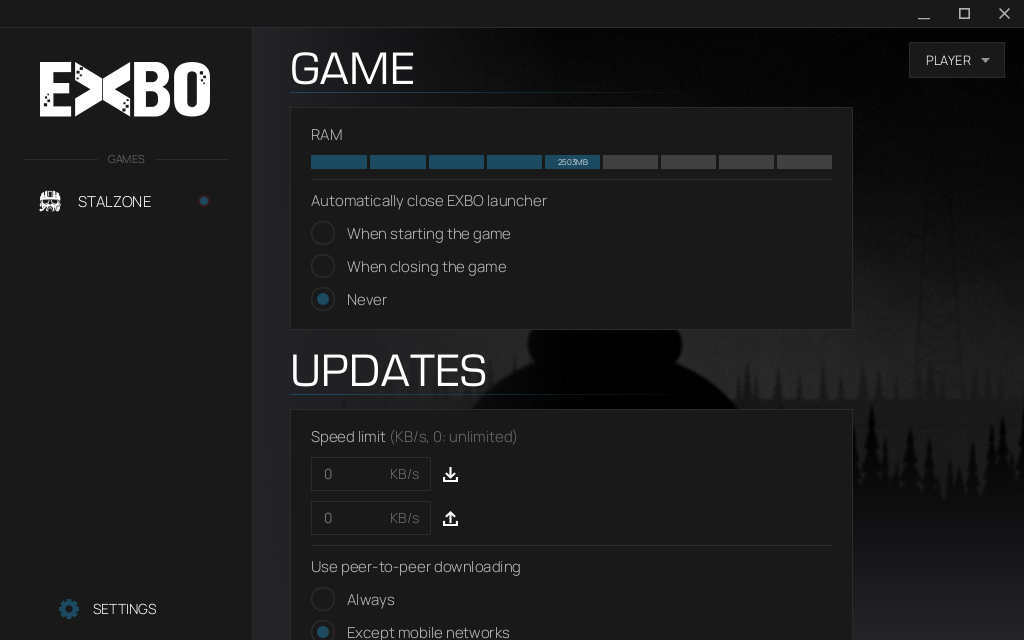
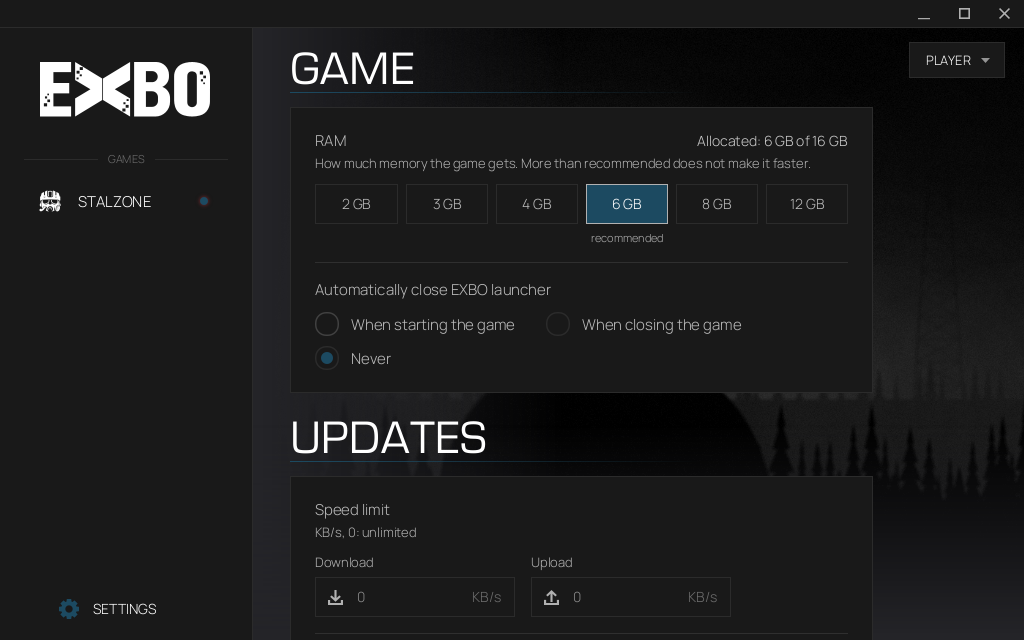
docs: screenshot tour for registration, TOTP toast and logout confirm; refreshed shots (zone/exbo/shadcn)
- ScreenshotTour: 05b_logout_confirm, 14_age_gate, 15_age_gate_too_young, 16_register,
  17_register_error, 18_registered_login, 19_totp_error; new settings in 06-08/12
- README (demo logins, registration, logout), STYLE-ZONE.md (settings, RAM, steps, TOTP, modal),
  WINDOWS.md (flow, panel table, logout/close paths)

diff --git a/src/main/kotlin/dev/launcherfork/app/ScreenshotTour.kt b/src/main/kotlin/dev/launcherfork/app/ScreenshotTour.kt
@@ -1,6 +1,9 @@
 package dev.launcherfork.app
 
+import dev.launcherfork.ui.screens.auth.AgeGateController
 import dev.launcherfork.ui.screens.auth.InitialAuthController
+import dev.launcherfork.ui.screens.auth.RegisterController
+import dev.launcherfork.ui.screens.auth.TotpAuthController
 import dev.launcherfork.theme.Theme
 import javafx.animation.PauseTransition
 import javafx.application.Platform
@@ -53,7 +56,9 @@ class ScreenshotTour(private val nav: StageNavigator, private val dir: File) {
         step(1.0) { shot("04_main") }
         step(0.1) { main().profileBarController.showMenu() }
         step(0.3) { shot("05_profile_menu") }
-        step(0.1) { main().profileBarController.hideMenu(); main().setSettingsVisible(true) }
+        step(0.1) { main().profileBarController.logout.fire() } // "Выйти из аккаунта" -> the logout confirmation
+        step(0.4) { shot("05b_logout_confirm") }
+        step(0.1) { main().logoutPaneController.logoutButtonLeft.fire(); main().setSettingsVisible(true) } // cancel
         step(0.6) { shot("06_settings_game") }
         step(0.1) { main().settingsController.scroll.vvalue = 0.55 }
         step(0.4) { shot("07_settings_updates") }
@@ -82,8 +87,43 @@ class ScreenshotTour(private val nav: StageNavigator, private val dir: File) {
         step(1.0) { shot("12_settings_en") }
         step(0.1) { main().profileBarController.switchAccount.fire() } // back to the separate auth window
         step(0.6) { shot("13_auth_after_switch_account") }
+        step(0.1) { nav.switchLanguage("ru"); nav.showAgeGate() }
+        registrationAndSecondFactorFlow()
         step(0.3) { Platform.exit() }
         run()
+    }
+
+    /** Pre-main window again (ru): age gate, registration form, back to login, authenticator-code panel with its toast. */
+    private fun registrationAndSecondFactorFlow() {
+        val gate = { nav.panelController as AgeGateController }
+        val form = { nav.panelController as RegisterController }
+        val auth = { nav.panelController as InitialAuthController }
+        val totp = { nav.panelController as TotpAuthController }
+        step(0.6) { shot("14_age_gate") }
+        step(0.1) {
+            gate().dayBox.value = 12; gate().monthBox.value = 3; gate().yearBox.value = gate().today.year - 12
+            gate().onContinue() // too young
+        }
+        step(0.3) { shot("15_age_gate_too_young") }
+        step(0.1) {
+            gate().dayBox.value = 26; gate().monthBox.value = 7; gate().yearBox.value = 2000
+            gate().onContinue()
+        }
+        step(0.6) { shot("16_register") }
+        step(0.1) {
+            form().emailField.text = "stalker@mail"
+            form().usernameField.text = "stalker_1"
+            form().passwordField.text = "zone2026!"
+            form().newsletterCheckBox.isSelected = true
+            form().licenseCheckBox.isSelected = true
+            form().onCreate() // e-mail format error
+        }
+        step(0.3) { shot("17_register_error") }
+        step(0.1) { form().emailField.text = "stalker@mail.ru"; form().onCreate() }
+        step(1.3) { shot("18_registered_login") }
+        step(0.1) { auth().loginField.text = "totp"; auth().passwordField.text = "secret"; auth().onEnter() }
+        step(1.3) { totp().codeInput.setCode("000000"); totp().enter() } // the mock's wrong code
+        step(1.3) { shot("19_totp_error") }
     }
 
     private fun step(delaySec: Double, action: () -> Unit) = steps.addLast(delaySec to action)

diff --git a/README.md b/README.md
@@ -36,8 +36,19 @@
 
 На машине без дисплея: `xvfb-run -a ./gradlew run -Dlauncher.theme=zone -Dlauncher.screenshots=$PWD/docs/screenshots/zone`.
 
-**Демо-логин** (всё фейковое): подходит любой логин и пароль. Логин `2fa` открывает экран ввода кода из e-mail
-(подходит любой 6-значный код). Пароль `wrong` показывает ошибку «неверный логин или пароль».
+**Демо-логин** (всё фейковое): подходит любой логин и пароль. Логин `2fa` открывает экран кода из e-mail
+(как раньше: любой 6-значный код; экран кода из письма ведёт ветка redesign/panels-zone), логин `totp` — экран кода
+из приложения-аутентификатора
+(6 ячеек, подходит любой 6-значный код, кроме `000000` — он показывает тост «ОШИБКА ПРИ ПОДТВЕРЖДЕНИИ»). Пароль
+`wrong` показывает ошибку «неверный логин или пароль».
+
+**Выход из аккаунта**: подтверждение открывает только пункт меню профиля «Выйти из аккаунта» (Enter — выйти,
+Esc — отмена, фокус на «Отмена»); «Сменить аккаунт» выходит сразу, крестик окна и Alt+F4 закрывают лаунчер без
+вопросов.
+
+**Регистрация** (ссылка «Создать» на панели входа): возраст (день / месяц / год, нужно ≥ 18 лет) → форма
+(почта, имя 3–16 символов `A-Z a-z 0-9 _`, пароль ≥ 8, обязательное согласие с лицензией) → панель входа с
+заполненным именем. Имя `taken` → «Имя занято», почта `taken@…` → «Эта почта уже зарегистрирована».
 
 Сценарий: окно фейкового самообновления → в том же окне вход → окно входа закрывается, открывается главное окно
 (Настройки / Скачать → прогресс → Играть → «Игра запущена»). Меню профиля в правом верхнем углу: «Профиль ↗»
@@ -78,7 +89,7 @@ src/main/kotlin/dev/launcherfork/
    ├─ Messages.kt       AuthError / UpdatePhase -> ключи строк (домен ключей не знает)
    ├─ Disposable.kt     контроллер экрана освобождает таймеры/слушатели при уходе с экрана
    ├─ state/            ClientStateStore: состояния клиента Download/Pause/Continue/Play/Exit (на сессию)
-   ├─ components/       WindowChrome (WindowFrame: drag/maximize/resize/центрирование, ResizeEdge), SegmentedBar (RAM),
+   ├─ components/       WindowChrome (WindowFrame: drag/maximize/resize/центрирование, ResizeEdge), RamSelector (RAM), CodeInput (ячейки кода TOTP),
    │                    LogoMark (вектор EXBO из exbo-logo.svg), InputBlock (блок мыши/клавиатуры под диалогом),
    │                    Effects, ServerEntryController (пункт игры в колонке)
    └─ screens/
@@ -160,7 +171,7 @@ src/main/resources/dev/launcherfork/
      фиксированного размера заполняет `panelHost` 460×588.
    - `OverlayNavigatorTest`: под диалогом (overlay и модальные слои) ничто не получает фокус, контент отключён и
      закэширован, фокус в диалоге; логотип — 4 `SVGPath` с even-odd, равномерный масштаб, заливка из токена.
-     `SegmentedBar` прилипает к сегментам.
+     `RamSelector` — чипы в ГБ.
    - `ClientStateStore` (скачивание, пауза, продолжение, готово, запуск, «выйти», поздние колбэки после паузы
      и рестарта, shutdown) на ручных фейках, без таймеров.
    - `background()`: исключение доходит до UI как ошибка; окна авторизации разблокируются и показывают
@@ -217,7 +228,8 @@ src/main/resources/dev/launcherfork/
 - **`-fx-effect: dropshadow(...), innershadow(...)`** на корне `main.fxml` в JavaFX 21 не парсится (два эффекта
   через запятую). Оставлен только `dropshadow`. Внутри прозрачного окна 886×550 тень всё равно обрезается.
 - **`NumberTextField`** (свой класс оригинала в `mail_auth.fxml`) заменён на `TextField` + `TextFormatter`.
-- **RAM**: вместо слайдера оригинала теперь сегментная полоса `SegmentedBar` (9 сегментов, клик/перетаскивание).
+- **RAM**: вместо слайдера оригинала — чипы `RamSelector` с реальными значениями в ГБ (2…16, не больше
+  памяти компьютера − 2 ГБ, рекомендуемое отмечено), подпись «Выделено: X ГБ из Y ГБ» (`domain/RamOptions`).
 - Переключатель страниц «главная/новости» (`pagesPane`), соцсети и описание сервера в отдельной панели убраны.
   Hero и новости редизайна тоже убраны (вместе с `NewsRepository`/`NewsItem` и моками новостей): центр
   главного окна будет спроектирован заново.
@@ -229,7 +241,9 @@ src/main/resources/dev/launcherfork/
 Снимки Scene активного окна, сделанные автотуром под Xvfb (`ScreenshotTour`), одинаковые для всех тем:
 `01_update_window`, `02_auth_window`, `03_auth_error` (окно до входа, 460×620), `04_main`, `05_profile_menu`,
 `06_settings_game`, `07_settings_updates`, `08_settings_others`, `09_running`, `10_tools_menu`,
-`11_resized_1366x800`, `12_settings_en`, `13_auth_after_switch_account`. Единственная игра STALZONE установлена,
+`11_resized_1366x800`, `12_settings_en`, `13_auth_after_switch_account`, затем снова окно входа (ru):
+`14_age_gate`, `15_age_gate_too_young`, `16_register`, `17_register_error`, `18_registered_login`,
+`19_totp_error`. После `05_profile_menu` есть `05b_logout_confirm` (подтверждение «Выход из аккаунта»). Единственная игра STALZONE установлена,
 поэтому диалога установки и прогресса скачивания в туре нет.
 
 - `docs/screenshots/zone/` — тема `zone` (основная цель редизайна);

diff --git a/docs/design/STYLE-ZONE.md b/docs/design/STYLE-ZONE.md
@@ -140,8 +140,27 @@ Oswald), поэтому кегли заголовков в `theme-zone.css` ув
 - **Поле ввода** (`.text-field` / `.zone-input` + `.zone-radius-sm`): заливка `-input`, рамка 1 px `-border`,
   при фокусе `-ring` (красная), текст `-input-foreground`, подсказка `-placeholder`.
 - **Радио / тумблер**: кольцо Ø22, обводка 1.5 px `-border`, заливка `-input`. Выбранное — красная точка Ø12.
-- **Сегментная полоса RAM** (`SegmentedBar`): 9 сегментов с `.zone-radius-sm`, активные `-primary`,
-  неактивные `-segment-off`, значение мелким кеглем в последнем активном сегменте.
+- **Настройки** (`settings.fxml`): раздел = заголовок Bebas + линия + карточка; в карточке `.settings-block`
+  (название 15 px `-text-label`, подсказка 13 px `-muted-foreground`, под ними контрол), блоки разделены линией
+  `-divider-light`, всё по одному левому краю. Радио одного параметра стоят в ряд (`FlowPane`, переносится в en),
+  лимиты скорости — два поля 200 px с подписями «Загрузка» / «Отдача» и иконкой внутри поля.
+- **Выбор RAM** (`RamSelector`, логика `domain/RamOptions`): чипы с подписью в ГБ (лестница 2, 3, 4, 6, 8, 12,
+  16 ГБ; не больше «память компьютера − 2 ГБ», мок = 16 ГБ → 2…12), выбранный — заливка `-primary`, под
+  рекомендуемым (≤ половины памяти и ≤ 6 ГБ) подпись «рекомендуем», справа от названия «Выделено: 6 ГБ из 16 ГБ».
+  Хранится `LauncherSettings.ramMb`; старое `ramFraction` (0..1 → 512 + 3584·f МБ) читается и округляется до
+  ближайшего чипа. Токен `-segment-off` больше не используется компонентами (оставлен в темах).
+- **Шаги окна входа** (`zone-steps.css`, поверх `zone-auth.css`): возраст (`age_gate_panel.fxml`, три
+  `ComboBox` `.zone-combo` 54 px с белым треугольником, список `-card-description`), регистрация
+  (`register_panel.fxml`, строки чекбоксов с подчёркнутыми ссылками `.zone-inline-link`),
+  тост ошибки сайта (`.zone-toast`: карточка, заголовок Bebas 30, текст, полоса с ✕ `-border`, снизу 2 px
+  `-primary`), светлая кнопка «ОТПРАВИТЬ» (`.zone-light`: `-foreground` / текст `-background`), уведомление об
+  успешной регистрации на панели входа (`.zone-notice`: `-card`, полоска 2 px `-foreground` слева).
+- **Код приложения-аутентификатора** (`zone-totp.css`, отдельный файл, подключён только в `totp_auth_panel.fxml`):
+  `CodeInput` — 6 ячеек `.code-cell` 54×58 через 12 px, `:filled` / `:focused` / `:error`; тост ошибки сайта.
+- **Подтверждение (модалка главного окна)** (`.modal-box` в `layout.css`, `main/modals/logout_pane.fxml`):
+  карточка по содержимому, отступы 22/28/28, заголовок Bebas, линия, текст, ряд кнопок справа внизу:
+  `.modal-action` Bebas 20, высота 44, основная `.btn-primary` (красная), вторая `.btn-outline` (прозрачная,
+  рамка `-border-hover`). Без абсолютных координат — кнопки не вылезают при любом шрифте и языке.
 - **Заголовок раздела**: Bebas Neue UPPERCASE, под ним линия 1 px с градиентом от `-heading-rule` в прозрачность.
 - **Полоса заголовка окна**: высота 28, `-titlebar`, снизу рамка `-border`. Справа «свернуть», «развернуть»
   и «закрыть»; крестик красный.
